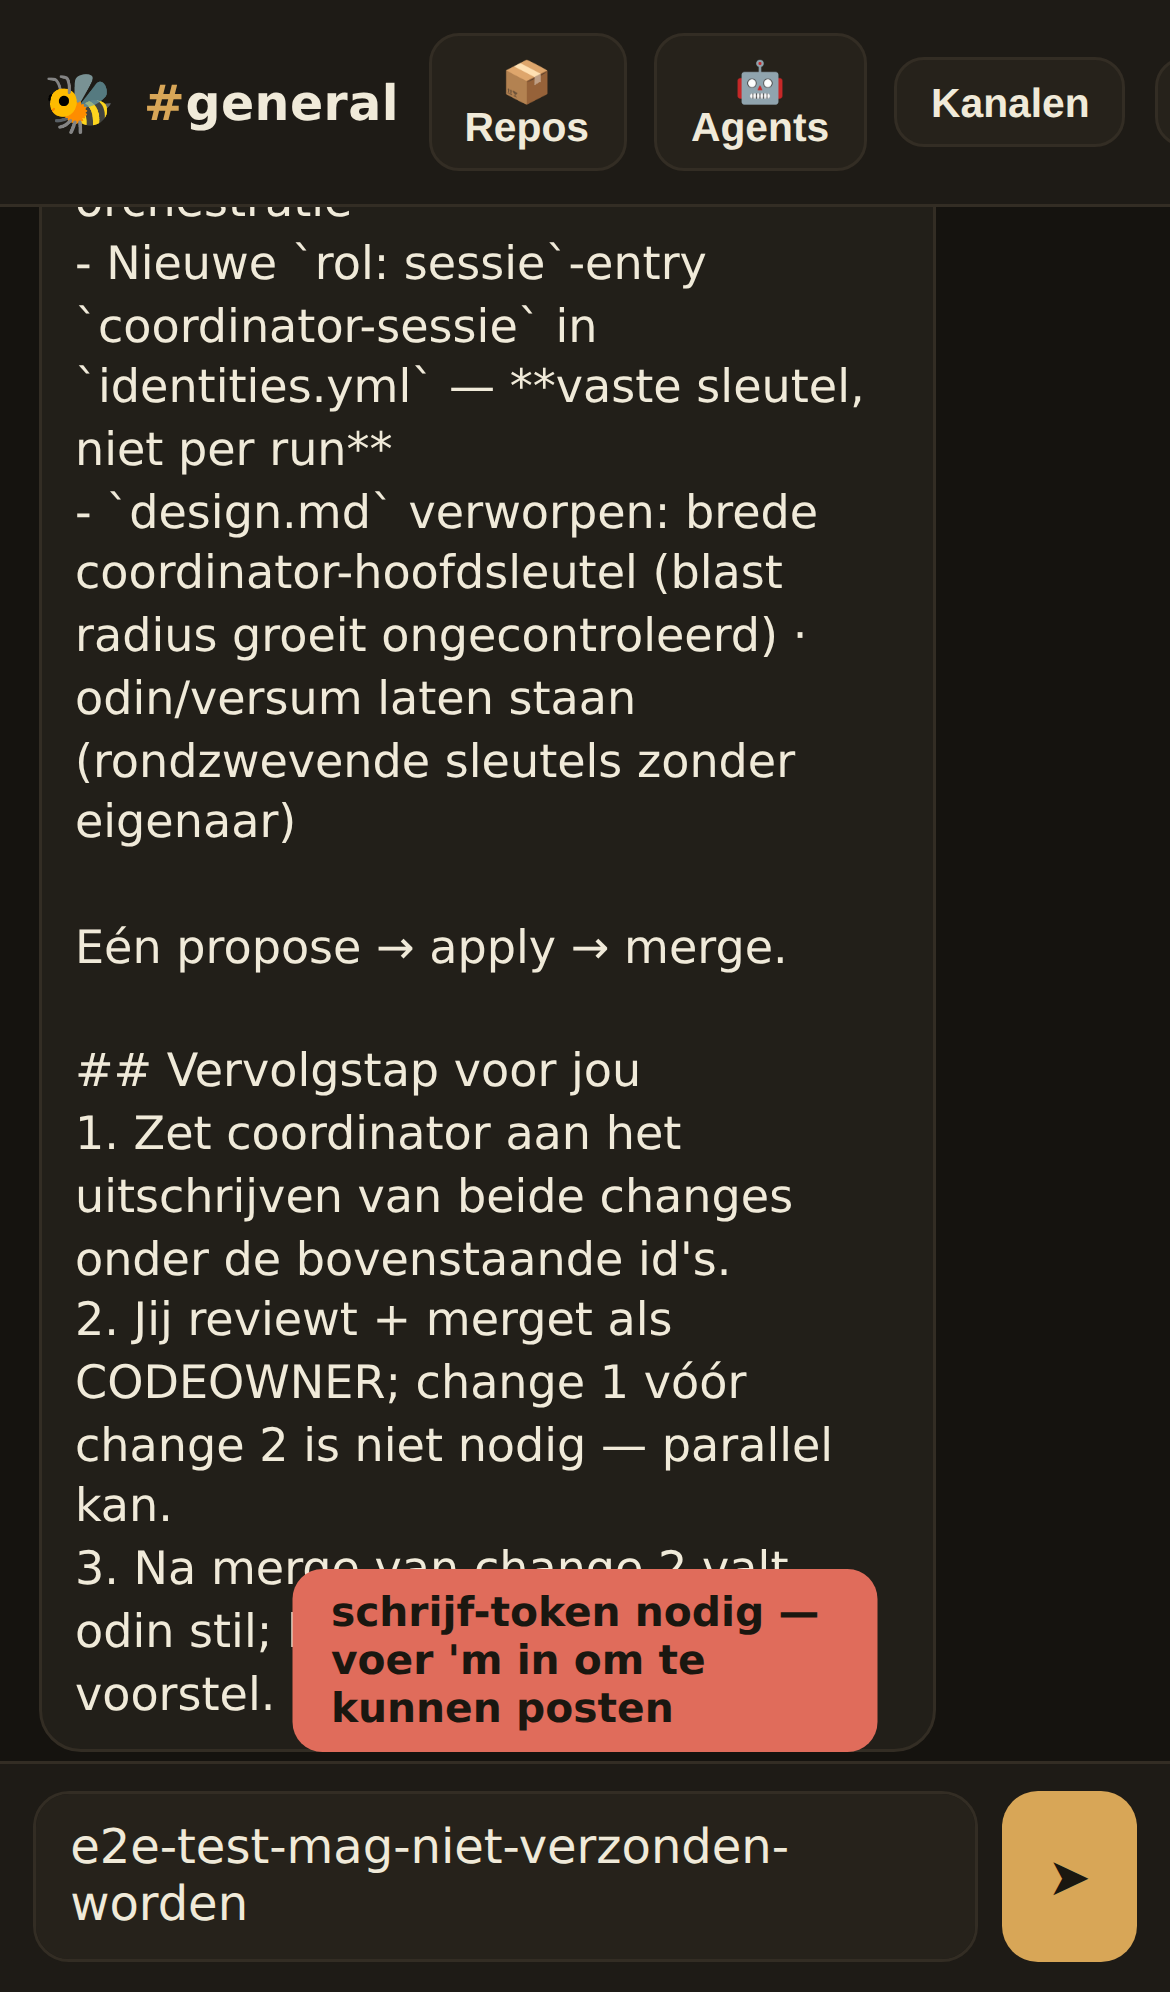
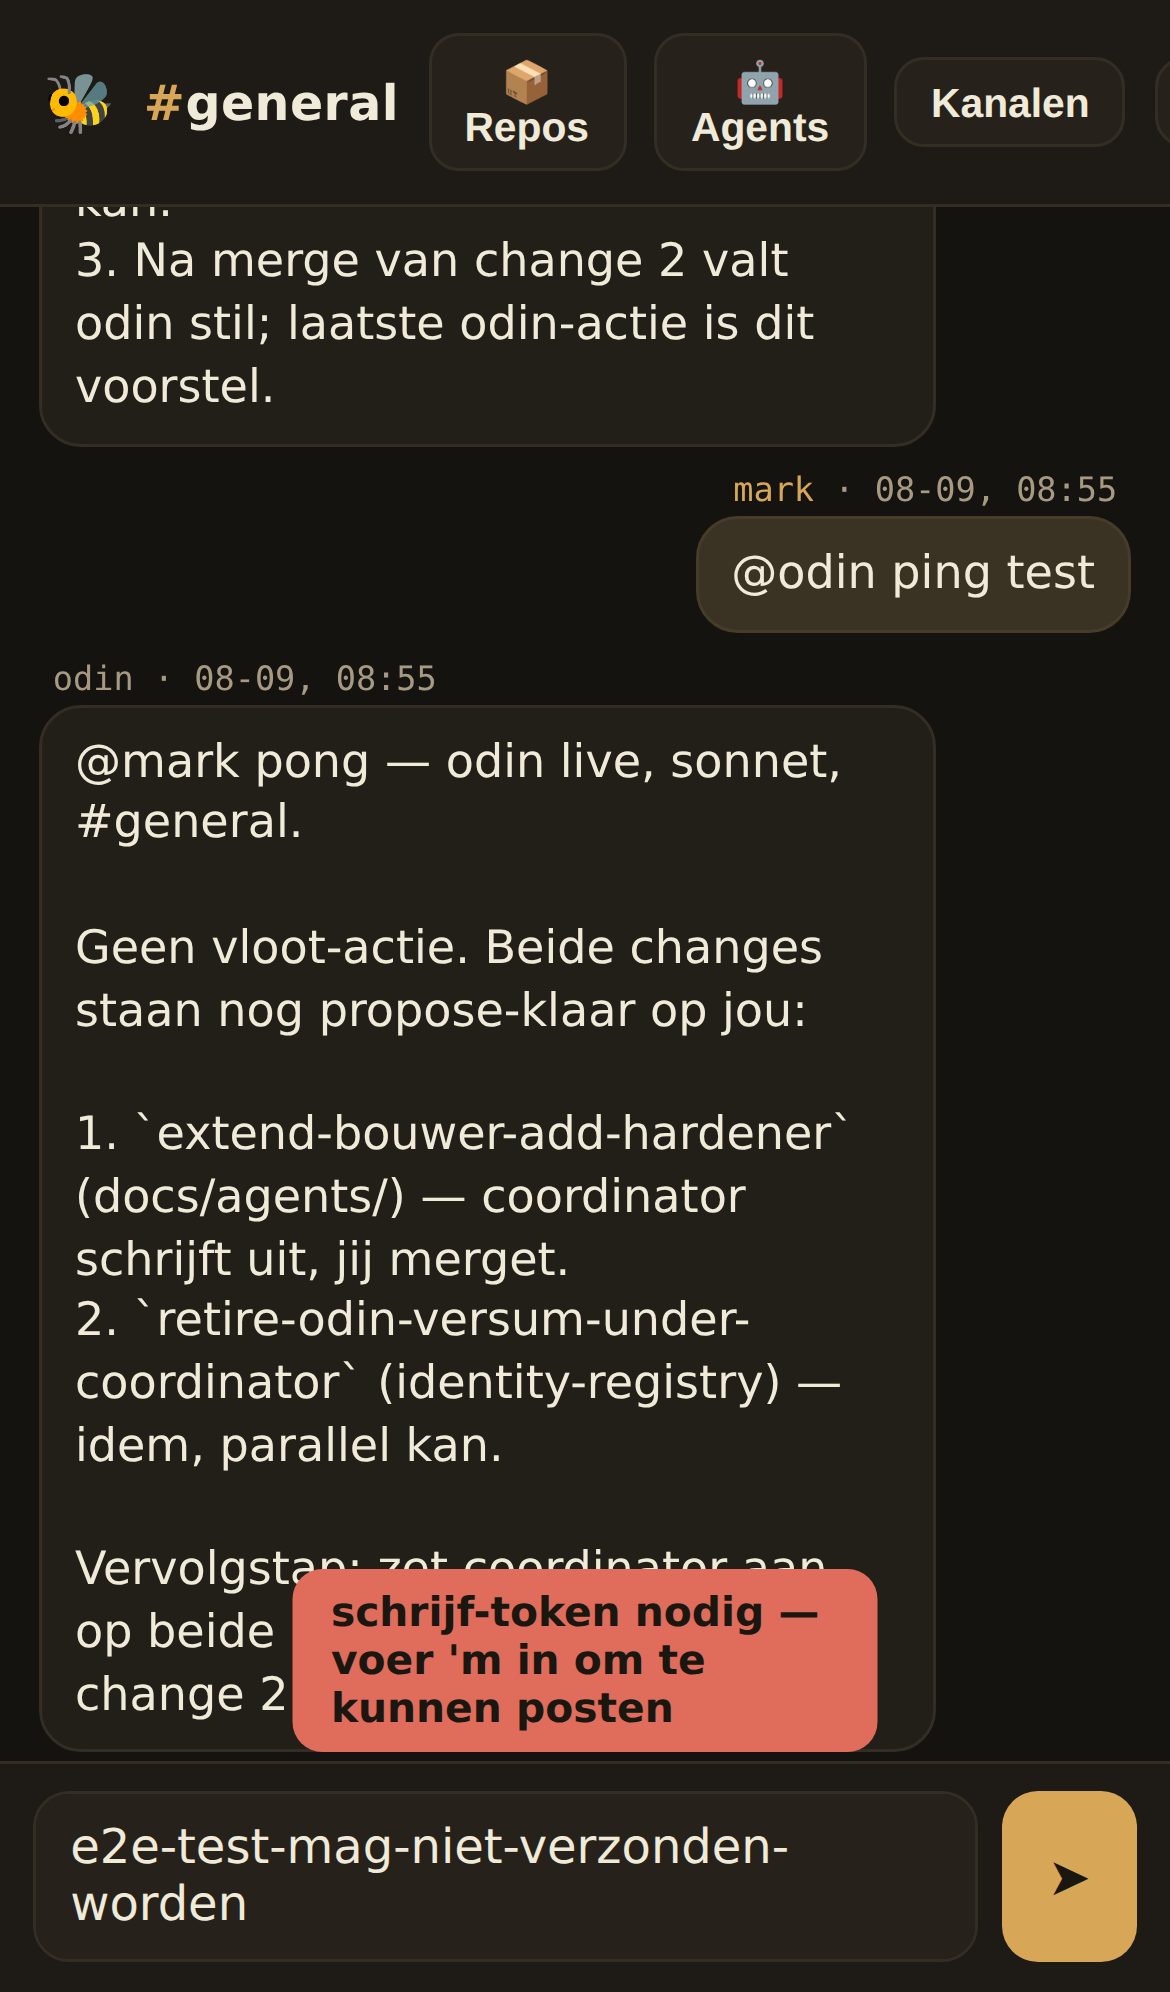
push: noem de push-service en de statuscode, niet alleen "1/1 verstuurd" (#54)
Mark meldde dat een testpush niet aankwam. Alles aan de zendkant klopte: FCM gaf
HTTP 201, de VAPID-sleutels matchen (publiek uit de private afgeleid en
vergeleken met wat de frontend krijgt), en de push-handler zit in de uitgerolde
sw.js. Toch was er geen melding.

Wat de sender NIET liet zien: er is precies één abonnement, en dat is een
fcm.googleapis.com-endpoint — Chrome, dus Android of desktop. Een iPhone
abonneert op web.push.apple.com. "1/1 verstuurd" verhulde dus dat het toestel
waar de melding werd verwacht helemaal niet was aangemeld.

- Per abonnee de push-service in de uitvoer.
- Per verzending de statuscode, met erbij dat 201 "aangenomen door de
  push-service" betekent en niet "getoond op het toestel". Dat onderscheid kostte
  een half uur zoeken.
- chat/README: hoe je aan de endpoint-host ziet welk soort toestel erachter zit.

diff --git a/orchestrator/push-notify.py b/orchestrator/push-notify.py
@@ -83,13 +83,26 @@ def main():
     if not subs:
         print("[push] geen subscriptions — niets te versturen."); return
     payload = json.dumps({"title": a.title, "body": body[:300], "url": a.url})
+    # Per abonnee de push-service noemen. "1/1 verstuurd" zegt niets over WELK
+    # toestel; een fcm.googleapis.com-endpoint is Chrome (Android of desktop),
+    # web.push.apple.com is Safari/iOS. Waargenomen 2026-09-08: één abonnement,
+    # FCM, HTTP 201 — en toch niets op de iPhone, want die had zich nooit
+    # aangemeld. Zonder deze regel is dat onzichtbaar.
+    for s_ in subs:
+        host = (s_.get("endpoint") or "").split("/")[2:3]
+        print(f"[push] abonnee: {host[0] if host else '?'}")
     sent = 0
     dead = []
     for s in subs:
         ep = s.get("endpoint") or ""
         try:
-            webpush(subscription_info=s, data=payload, vapid_private_key=v["private"],
-                    vapid_claims={"sub": v.get("subject", "mailto:boomhuis@localhost")})
+            r = webpush(subscription_info=s, data=payload, vapid_private_key=v["private"],
+                        vapid_claims={"sub": v.get("subject", "mailto:boomhuis@localhost")})
+            # De statuscode erbij: 201 betekent "de push-service heeft 'm
+            # aangenomen", NIET "het toestel heeft 'm getoond". Dat onderscheid
+            # kostte een half uur zoeken.
+            print(f"[push] {ep.split('/')[2]}: HTTP {getattr(r, 'status_code', '?')} (aangenomen "
+                  f"door de push-service; aflevering is niet te bevestigen)")
             sent += 1
         except WebPushException as e:
             # 404/410 = de push-service kent dit endpoint niet meer → weg ermee.

diff --git a/chat/README.md b/chat/README.md
@@ -92,6 +92,14 @@ Wat waar staat en terug moet na een redeploy of host-herstel:
 - **`secrets/vapid.yaml`** (deze repo, SOPS+age) — VAPID-private + subject. Alleen
   de sender op agent-lxc decrypt 'm; de VM heeft de private nooit nodig.
 
+**"1/1 verstuurd" is geen aflevering.** De sender noemt nu per abonnee de
+push-service en de statuscode. HTTP 201 betekent dat FCM of Apple het bericht
+heeft aangenomen; of een toestel het toont, is van buitenaf niet te zien. De
+endpoint-host zegt wél welk soort toestel er achter zit:
+`fcm.googleapis.com` = Chrome (Android of desktop), `web.push.apple.com` =
+Safari/iOS. Zie je alleen een FCM-abonnee terwijl je een melding op een iPhone
+verwacht, dan is dat toestel simpelweg niet aangemeld.
+
 Versturen (vanaf agent-lxc): `uv run orchestrator/push-notify.py --title … --url /
 --body "…"` (met `SOPS_AGE_KEY_FILE` gezet). De sender leest de subs via `sudo` op
 de VM en ruimt verlopen subscriptions (404/410) op. Automatisch afgevuurd door
